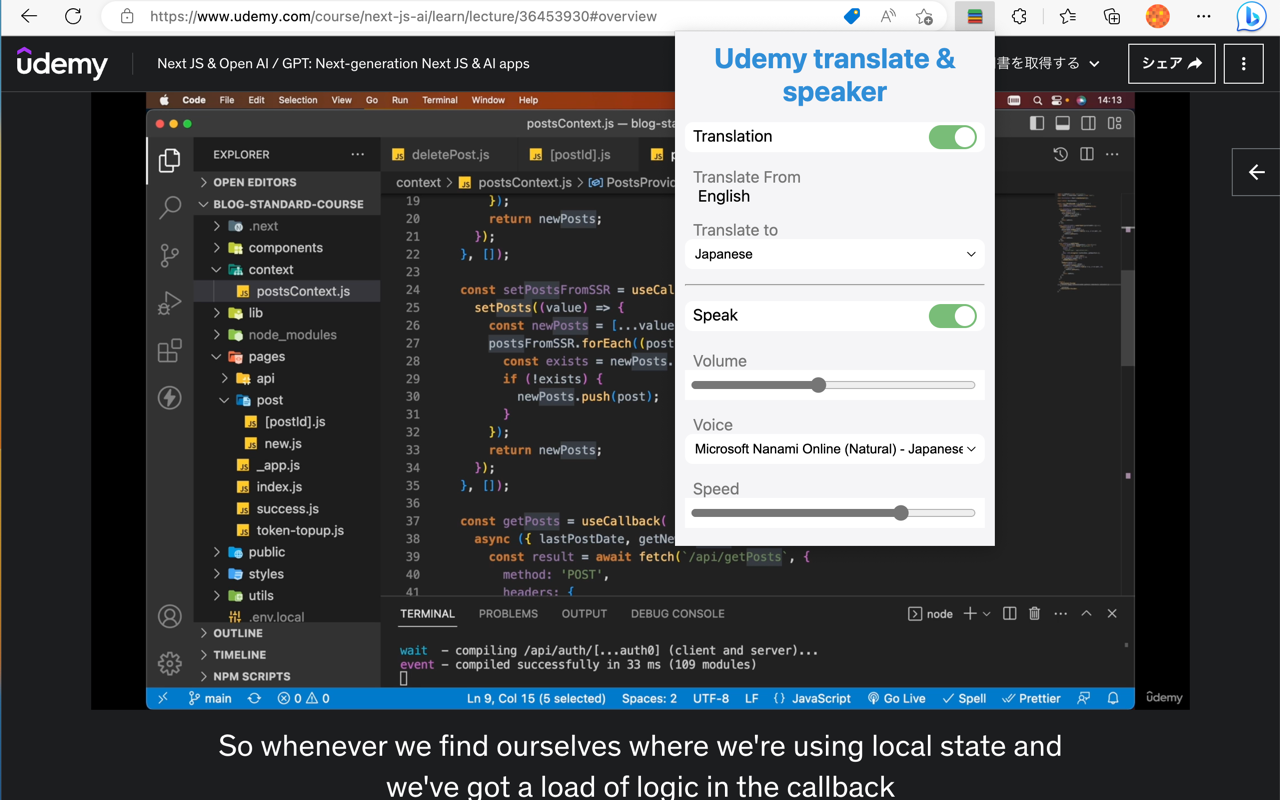
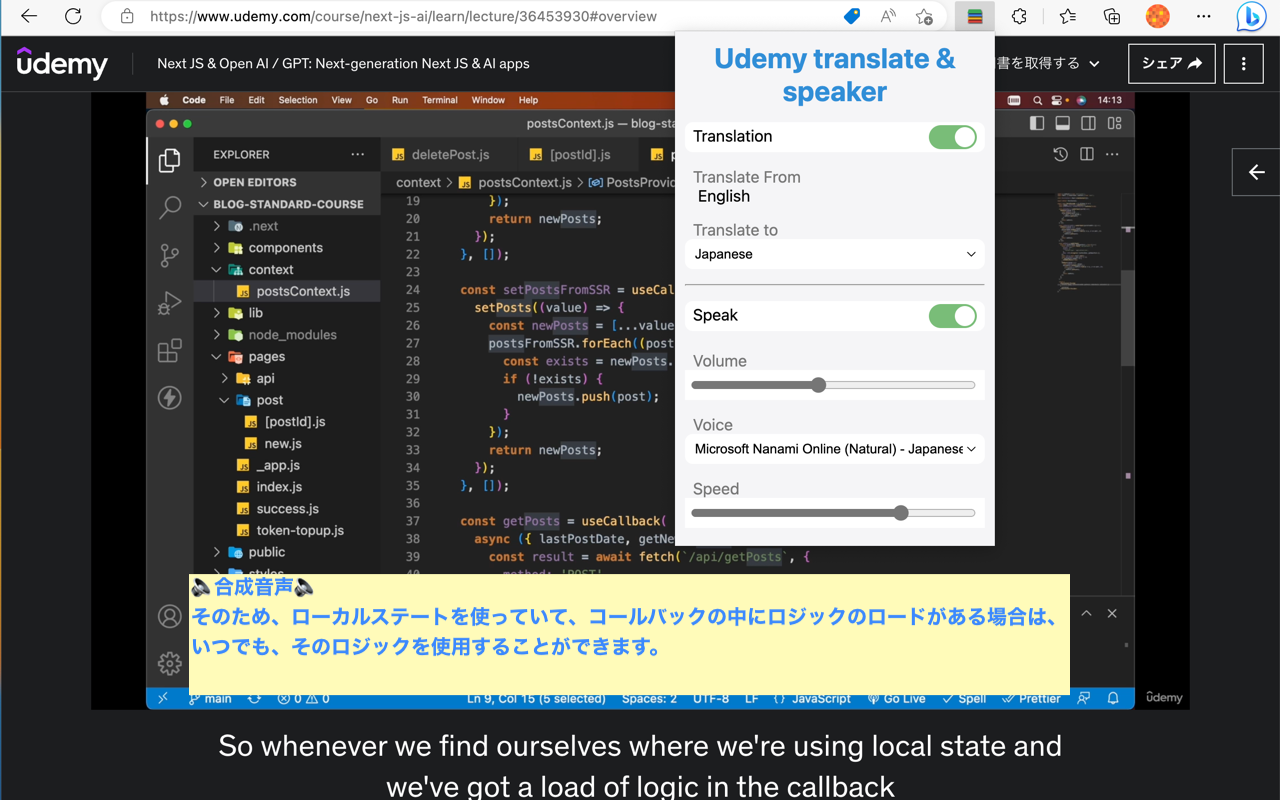
バグ修正

Changed region(s): [[0.125, 0.7188, 0.8438, 0.875]]

diff --git a/content.js b/content.js
@@ -221,7 +221,10 @@ function observeCaption(targetNode, voices, videoId) {
           const sourceLanguage = 'en'
           const result = await getStorage()
           const targetLanguage = result.translateTo
-          const editedCaption = caption.replace(/\. /g, '.') // 文が複数あると後続の文が翻訳されないため、`. `を`.`に置き換えて全文が翻訳されるようにしている
+          const editedCaption = caption
+            .replace(/\. /g, '.')
+            .replace(/\? /g, '?') // 文が複数あると後続の文が翻訳されないため、`. `を`.`に置き換えて全文が翻訳されるようにしている
+          console.log(editedCaption)
           const apiUrl = `https://translate.googleapis.com/translate_a/single?client=gtx&sl=${sourceLanguage}&tl=${targetLanguage}&dt=t&q=${encodeURIComponent(
             editedCaption
           )}`
@@ -235,9 +238,11 @@ function observeCaption(targetNode, voices, videoId) {
       }
 
       // 読上リストが溜まっている場合
-      console.log('captions.length=' + captions.length)
+      // console.log('captions.length=' + captions.length)
       if (5 < captions.length) {
         currentVideo.pause() // 再生中のビデオを停止する
+        // synth.pause()
+        synth.resume()
         alert(SKIP_MESSAGE)
       }
 
